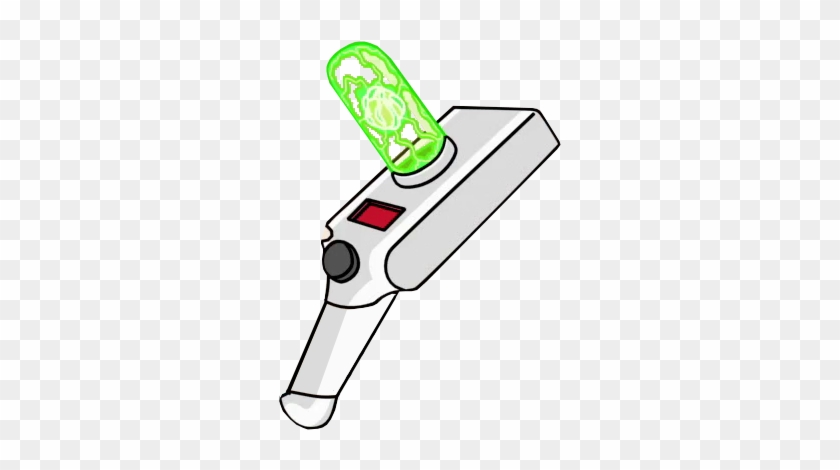
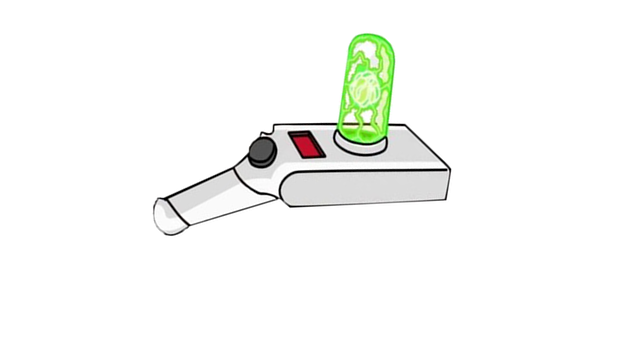
Extended the project.

Changed region(s): [[0.2188, 0.0615, 0.7188, 0.9218], [0.25, 0.6453, 0.2812, 0.676]]

diff --git a/src/components/Episodes/EpisodeList.js b/src/components/Episodes/EpisodeList.js
@@ -1,25 +1,61 @@
 import React, {useState, useEffect} from 'react';
 import axios from 'axios'
-import {Container} from '../Styles/Styles'
+import {Container, Counter} from '../Styles/Styles'
 import {EpisodeCard} from './EpisodeCard'
+import NavGunLeft from '../Images/transparentportalgun-rotatedLeft.png'
+import NavGunRight from '../Images/transparentportalgun-rotatedRight.png'
 
 export const EpisodeList = () => {
   const [episodes, setEpisodes] = useState([])
+  const [totalPages, setTotalPages] = useState(false)
+  const [currentPage, setCurrentPage] = useState(1) //I'm setting my page data here.
+
+
+  
 
   useEffect(() => {
-    axios.get('https://rickandmortyapi.com/api/episode/')
+    axios.get(`https://rickandmortyapi.com/api/episode/?page=${currentPage}`)
     .then(response => {
       console.log(response)
       setEpisodes(response.data.results)
+      setTotalPages(response.data.info.pages)
     })
     .catch(error => {
       console.log(error)
     })
-  }, [])
+  }, [currentPage])
+
+//These functions need to be consolidated into a different component so I don't need to restate them every time I want to use them.
+  const PageBack = () => (currentPage > 1 && currentPage <= totalPages + 1) ? 
+  setCurrentPage(currentPage - 1) : alert('Not a valid universe!')
+
+
+  const PageForward = () => (currentPage >= 1 && currentPage < totalPages) ? 
+    setCurrentPage(currentPage + 1) : alert('Not a valid universe!')
+
+
 
   return(
     <div>
     <Container><h1>Episodes!</h1></Container>
+      <Container>
+          <div className="mouseover">
+            <img src={NavGunLeft} onClick={PageBack}/>
+          </div>
+        <Counter> Page {currentPage} of {totalPages} </Counter>
+
+        <div className="mouseover">
+          <img className="mouseover" src={NavGunRight} onClick={PageForward}/>
+        </div>
+
+
+
+      </Container>
+
+
+
+
+
     <Container> {/*This is just the place where I'm getting to pass in value for my props.*/}
       {episodes.map((item, index) => {//Doesn't run the map function until we get data back from the API.
         return (
@@ -30,6 +66,23 @@ export const EpisodeList = () => {
     </Container>
     </div>
   )}
+
+
+
+
+
+
+
+
+
+
+
+
+
+
+
+
+
 
 //If you add your effect calls in App, it will call for everything at the very beginning instead of waiting for each component to be called specifically. Could speed up loading time.
 

diff --git a/src/components/Characters/CharacterList.js b/src/components/Characters/CharacterList.js
@@ -2,6 +2,8 @@ import React, { useEffect, useState } from "react";
 import axios from 'axios'
 import {Container, Counter, Button} from '../Styles/Styles'
 import CharacterCard from './CharacterCard'
+import NavGunLeft from '../Images/transparentportalgun-rotatedLeft.png'
+import NavGunRight from '../Images/transparentportalgun-rotatedRight.png'
 
 
 
@@ -11,19 +13,6 @@ export const  CharacterList = () => {
   const [totalPages, setTotalPages] = useState(false)
   const [currentPage, setCurrentPage] = useState(1) //I'm setting my page data here.
 
-//   let pageNext = () => {
-//     if(currentPage >= 1 && currentPage < totalPages.length){
-//       setCurrentPage(currentPage++)
-//       console.log(currentPage)
-//    }
-//   }
-
-//   let pagePrevious = () => {
-//     if(currentPage > 1 && currentPage <= totalPages.length){
-//     setCurrentPage(currentPage--)
-//     console.log(currentPage)
-//  }
-// }
 
 
 //  setPreferredPage ---- > input field ---- (onSubmit) ---- setCurrentPage(formValue) ---- dependency array(currentPage)
@@ -44,24 +33,25 @@ export const  CharacterList = () => {
   console.log(characters);
   console.log(totalPages)
 
+  const PageBack = () => (currentPage > 1 && currentPage <= totalPages + 1) ? 
+  setCurrentPage(currentPage - 1) : alert('Not a valid universe!')
+
+  const PageForward = () => (currentPage >= 1 && currentPage < totalPages) ? 
+    setCurrentPage(currentPage + 1) : alert('Not a valid universe!')
+
+
   return (
   <div>
     <Container><h1>Characters!</h1></Container>
     <Container>
-      <Button onClick={() => (currentPage > 1 && currentPage <= totalPages + 1) ? 
-        setCurrentPage(currentPage - 1) : alert('Not a valid universe!')}>
-        Previous
-      </Button>
-
+        <div className="mouseover">
+          <img src={NavGunLeft} onClick={PageBack}/>
+        </div>
       <Counter> Page {currentPage} of {totalPages} </Counter>
-      
-      
 
-      <Button onClick={() => 
-        (currentPage >= 1 && currentPage < totalPages) ? 
-        setCurrentPage(currentPage + 1) : alert('Not a valid universe!')}>
-          Next
-      </Button>
+      <div className="mouseover">
+        <img className="mouseover" src={NavGunRight} onClick={PageForward}/>
+      </div>
 
     </Container>
 

diff --git a/src/components/Locations/LocationsList.js b/src/components/Locations/LocationsList.js
@@ -1,27 +1,53 @@
 import React, {useState, useEffect} from 'react';
 import axios from 'axios'
-import {Container} from '../Styles/Styles'
+import {Container, Counter} from '../Styles/Styles'
 import {LocationCard} from './LocationCard'
+import NavGunLeft from '../Images/transparentportalgun-rotatedLeft.png'
+import NavGunRight from '../Images/transparentportalgun-rotatedRight.png'
 
 export const LocationsList = (props) => {
   const [locations, setLocations] = useState([])
+  const [totalPages, setTotalPages] = useState(false)
+  const [currentPage, setCurrentPage] = useState(1)
 
   useEffect(() => {
     console.log(props);
 
-    axios.get('https://rickandmortyapi.com/api/location/')
+    axios.get(`https://rickandmortyapi.com/api/location/?page=${currentPage}`)
     .then(response => {
       console.log(response)
       setLocations(response.data.results)
+      setTotalPages(response.data.info.pages)
+
     })
     .catch(error => {
       console.log(error)
     })
-  }, [])
+  }, [currentPage])
+
+  const PageBack = () => (currentPage > 1 && currentPage <= totalPages + 1) ? 
+  setCurrentPage(currentPage - 1) : alert('Not a valid universe!')
+
+  const PageForward = () => (currentPage >= 1 && currentPage < totalPages) ? 
+    setCurrentPage(currentPage + 1) : alert('Not a valid universe!')
 
   return(
     <div>
         <Container><h1>Locations!</h1></Container>
+
+        <Container>
+          <div className="mouseover">
+            <img src={NavGunLeft} onClick={PageBack}/>
+          </div>
+        <Counter> Page {currentPage} of {totalPages} </Counter>
+
+        <div className="mouseover">
+          <img className="mouseover" src={NavGunRight} onClick={PageForward}/>
+        </div>
+
+
+
+      </Container>
         <Container> {/*This is just the place where I'm getting to pass in value for my props.*/}
         {locations.map((item, index) => {//Doesn't run the map function until we get data back from the API.
             return (

diff --git a/src/components/Styles/Styles.js b/src/components/Styles/Styles.js
@@ -11,7 +11,6 @@ export const Container = styled.div`
 `;
 
 
-
 export const Card = styled.div`
 
     font-size: 62.5%;
@@ -40,28 +39,28 @@ export const NavContainer = styled.div`
 
     display: flex;
     margin: 0 auto;
-    justify-content: center;
+    justify-content: space-around;
     align-items: center;
 `;
 
 export const NavItem = styled(NavLink)`
     display: flex;
-    font-size: 1.4rem;
+    font-size: 2rem;
+    // border: .1rem solid white;
+    text-shadow: 2px 2px 4px #000000;    
     margin: 0 auto;
     justify-content: center;
     align-items: center;
     text-decoration: none;
-    padding: 2rem;
-    width: 10rem;
-    height: 4rem;
-    border: .3rem solid gray;
-    border-radius: .5rem;
-    background-color: #52a934
+    padding: 4.5rem;
+    width: 4.5rem
+    height: 4.6rem;
+
     color: white;
     
     :hover {
         transform: scale(1.1);
-        box-shadow: .9rem .9rem .9rem #888888;
+        color: lightgray;
     }
 `;
 
@@ -72,7 +71,6 @@ export const Button = styled.button`
     display: flex;
     color: black;
     cursor: pointer;
-    // url: './Images/transparentportalgun.png';
     
 `
 
@@ -82,6 +80,7 @@ export const Counter = styled.div`
     font-size: 1.2rem;
     margin: 1rem;
     padding: 1rem;
+    color: white;
 `
 
 export const Schwifty = styled.h1`
@@ -89,4 +88,3 @@ export const Schwifty = styled.h1`
     font-size: 1.6rem;
 `
 
-// export const Portal = require('./logo.jpeg);

diff --git a/src/index.css b/src/index.css
@@ -42,3 +42,52 @@ main {
 header h1 {
   text-align: center;
 }
+
+.mouseover:hover {
+  transform: scale(1.0725)
+}
+
+.mouseover:active {
+  transform: scale(0.9725)
+}
+
+.portal {
+  display: flex;
+  background-image: url("./components/Images/5b537363393dc26c68b566fe482eb32d.png");
+  background-repeat: no-repeat;
+}
+
+.portal:hover {
+  transform: scale(1.0725)
+}
+
+.portal:active {
+  transform: scale(0.9725)
+}
+
+.right:hover {
+  position: inherit;
+  -webkit-animation:spinR 5s linear infinite;
+  -moz-animation:spinR 5s linear infinite;
+  animation:spinR 5s linear infinite;
+}
+
+@-moz-keyframes spinR { 100% { -moz-transform: rotate(360deg); } }
+@-webkit-keyframes spinR { 100% { -webkit-transform: rotate(360deg); } }
+@keyframes spinR { 100% { -webkit-transform: rotate(360deg); transform:rotate(360deg); } }
+/* 
+.left:hover {
+  position: absolute;
+  top: 10%;
+  left: 10%;
+  width: auto;
+  height: auto;
+  margin:-60px 0 0 -60px;
+  -webkit-animation:spinL 4s linear infinite;
+  -moz-animation:spinL 4s linear infinite;
+  animation:spinL 4s linear infinite;
+}
+
+@-moz-keyframes spinL { 100% { -moz-transform: rotate(360deg); } }
+@-webkit-keyframes spinL { 100% { -webkit-transform: rotate(360deg); } }
+@keyframes spinL { 100% { -webkit-transform: rotate(360deg); transform:rotate(360deg); } } */

diff --git a/src/components/TabNav.js b/src/components/TabNav.js
@@ -7,10 +7,19 @@ const TabNav = () => {
 
 return(
     <NavContainer>
-        <NavItem exact to={`/`}>Home</NavItem>
-        <NavItem to='character-list'>Characters</NavItem>
-        <NavItem to='episode-list'>Episodes</NavItem>
-        <NavItem to='locations-list'>Locations</NavItem>
+        <div className="portal left">
+            <NavItem exact to={`/`}>Home</NavItem>
+        </div>
+        <div className="portal">
+            <NavItem to='character-list'>Characters</NavItem>
+        </div>
+        <div className="portal">
+            <NavItem to='episode-list'>Episodes</NavItem>
+        </div>
+        <div className="portal right">
+            <NavItem to='locations-list'>Locations</NavItem>
+        </div>
+
     </NavContainer>
 
     )

diff --git a/src/components/PageChange/PageChange.js b/src/components/PageChange/PageChange.js
@@ -1,0 +1,12 @@
+import React, {useState, useEffect} from 'react';
+
+
+const PageBack = () => (currentPage > 1 && currentPage <= totalPages + 1) ? 
+  setCurrentPage(currentPage - 1) : alert('Not a valid universe!')
+
+
+const PageForward = () => (currentPage >= 1 && currentPage < totalPages) ? 
+    setCurrentPage(currentPage + 1) : alert('Not a valid universe!')
+
+
+
